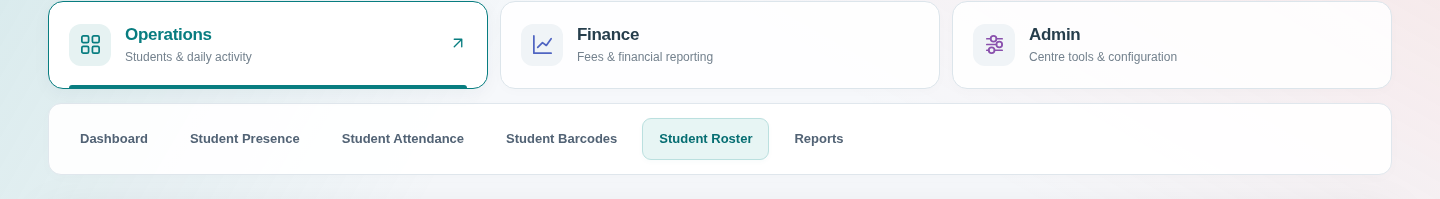
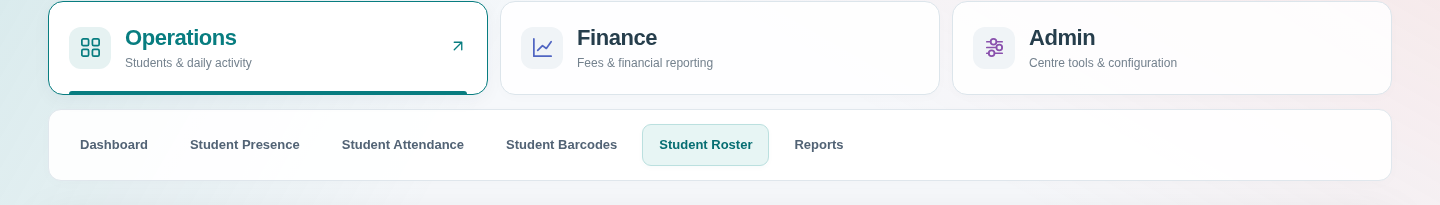
Emphasize workspace headings above smaller navigation options

diff --git a/styles.css b/styles.css
@@ -242,9 +242,9 @@ h2 { font-size: 20px; }
 .grouped-tabs-nav{display:block;padding:0 clamp(18px,4vw,48px) 24px}
 .grouped-tabs-nav.collapsed{display:none!important}
 .workspace-switcher{display:grid;grid-template-columns:repeat(3,minmax(0,1fr));gap:12px;margin-bottom:14px}
-.workspace-tab{--workspace-color:#087d80;display:flex;align-items:center;gap:14px;min-height:88px;padding:18px 20px;border:1px solid #dce5eb;border-radius:15px;background:#ffffffd9;color:#526375;text-align:left;cursor:pointer;box-shadow:0 3px 12px #18354304;transition:background .18s,box-shadow .18s,border-color .18s,transform .18s;font:inherit;position:relative;overflow:hidden}
+.workspace-tab{--workspace-color:#087d80;display:flex;align-items:center;gap:14px;min-height:94px;padding:18px 20px;border:1px solid #dce5eb;border-radius:15px;background:#ffffffd9;color:#526375;text-align:left;cursor:pointer;box-shadow:0 3px 12px #18354304;transition:background .18s,box-shadow .18s,border-color .18s,transform .18s;font:inherit;position:relative;overflow:hidden}
 .workspace-tab[data-workspace="finance"]{--workspace-color:#5065c2}.workspace-tab[data-workspace="admin"]{--workspace-color:#8a51ad}
-.workspace-tab strong{display:block;font-size:17px;letter-spacing:-.3px;color:#263e4c}.workspace-tab small{display:block;font-size:12px;margin-top:5px;color:#74828e;font-weight:400}
+.workspace-tab strong{display:block;font-size:22px;font-weight:750;line-height:1.2;letter-spacing:-.45px;color:#263e4c}.workspace-tab small{display:block;font-size:12px;margin-top:5px;color:#74828e;font-weight:400}
 .workspace-icon{display:grid;place-items:center;flex:0 0 42px;height:42px;border-radius:12px;background:#f0f4f7;font-size:24px;color:var(--workspace-color);font-weight:650}
 .workspace-icon svg{width:23px;height:23px}.workspace-indicator svg{width:18px;height:18px}
 .workspace-indicator{margin-left:auto;color:var(--workspace-color);font-size:21px;opacity:0;transition:opacity .18s,transform .18s;transform:translate(-4px,4px)}
@@ -260,7 +260,7 @@ h2 { font-size: 20px; }
 #options-admin .tab-group-buttons .tab.active{background:#f5edf9;border-color:#e4d1ed;color:#8045a2}
 .workspace-tab:focus-visible,#studentTabs .tab:focus-visible{outline:3px solid #90cdcf;outline-offset:3px}
 @keyframes workspace-reveal{from{opacity:0;transform:translateY(5px)}to{opacity:1;transform:none}}
-@media(max-width:700px){.workspace-switcher{gap:7px}.workspace-tab{padding:12px 9px;gap:7px;min-height:74px;flex-direction:column;justify-content:center;text-align:center;border-radius:11px}.workspace-icon{flex:none;width:29px;height:29px;font-size:19px;border-radius:8px}.workspace-tab strong{font-size:13px}.workspace-tab small,.workspace-indicator{display:none}.workspace-tab.selected:after{left:12px;right:12px}#studentTabs .tab-group{padding:9px}.tab-group-buttons{gap:5px}#studentTabs .tab-group-buttons .tab{padding:10px 12px;font-size:12px;flex:1 1 auto}}
+@media(max-width:700px){.workspace-switcher{gap:7px}.workspace-tab{padding:12px 9px;gap:7px;min-height:80px;flex-direction:column;justify-content:center;text-align:center;border-radius:11px}.workspace-icon{flex:none;width:29px;height:29px;font-size:19px;border-radius:8px}.workspace-tab strong{font-size:16px;letter-spacing:-.25px}.workspace-tab small,.workspace-indicator{display:none}.workspace-tab.selected:after{left:12px;right:12px}#studentTabs .tab-group{padding:9px}.tab-group-buttons{gap:5px}#studentTabs .tab-group-buttons .tab{padding:10px 12px;font-size:12px;flex:1 1 auto}}
 @media(prefers-reduced-motion:reduce){.workspace-tab,.workspace-indicator,#studentTabs .tab{transition:none!important}.workspace-tab:hover{transform:none}#studentTabs .tab-group{animation:none}}
 
 .admin-area-switch {

diff --git a/index.html b/index.html
@@ -26,7 +26,7 @@
       }
     }
   </script>
-  <link rel="stylesheet" href="styles.css?v=20261030-workspace1">
+  <link rel="stylesheet" href="styles.css?v=20261030-workspace2">
   <link rel="manifest" href="manifest.json">
 </head>
 <body>

diff --git a/sw.js b/sw.js
@@ -1,4 +1,4 @@
-const CACHE_NAME = "kumon-tracking-cache-v11-workspaces";
+const CACHE_NAME = "kumon-tracking-cache-v12-workspace-type";
 const ASSETS = [
   "/",
   "/index.html",

diff --git a/docs/STUDENT_NAVIGATION_UAT.md b/docs/STUDENT_NAVIGATION_UAT.md
@@ -2,7 +2,7 @@
 
 Operations, Finance and Admin remain visible as three workspace headings. Only the selected workspace's tools are shown. Each workspace remembers its last selected page for the current page session. Existing permissions control which pages and headings are available. Setup redirects and direct attendance navigation keep the correct heading selected.
 
-The interface uses teal, indigo and purple accents, consistent SVG icons, a brief reveal transition, visible keyboard focus, arrow/Home/End navigation and a compact mobile layout. Reduced-motion preferences disable the animation.
+Primary headings use bold 22px lettering on desktop and 16px on mobile, above smaller 13px/12px option labels. The interface uses teal, indigo and purple accents, consistent SVG icons, a brief reveal transition, visible keyboard focus, arrow/Home/End navigation and a compact mobile layout. Reduced-motion preferences disable the animation.
 
 ![Desktop navigation](images/student-navigation-desktop.png)
 
